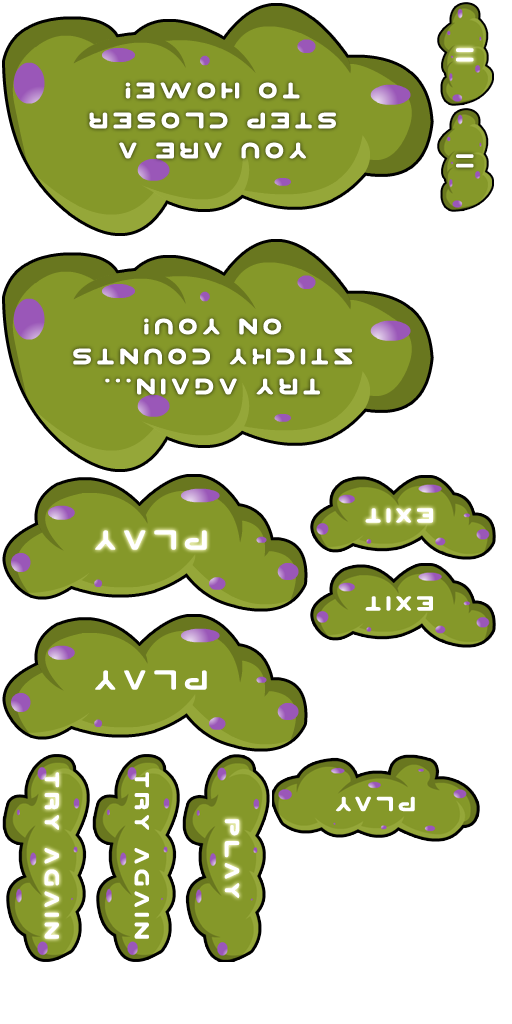
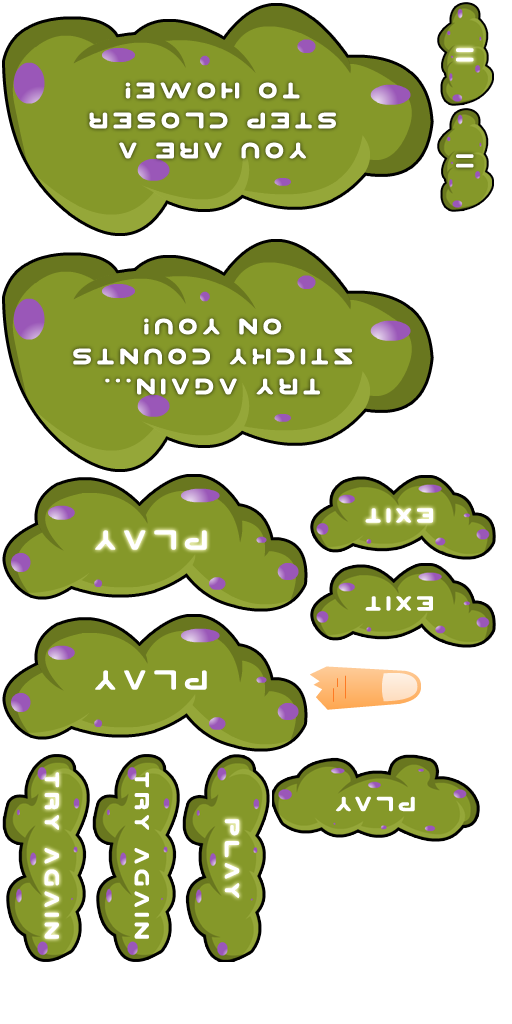
Added how to play at the begining of the 1st level.

Changed region(s): [[0.5938, 0.625, 0.8438, 0.7188]]

diff --git a/TunnelJoggler/HUD.mm b/TunnelJoggler/HUD.mm
@@ -15,12 +15,14 @@
 @interface HUD()
 @property (nonatomic, assign) BOOL isGameOver;
 @property (nonatomic, assign) int score;
+@property (assign, nonatomic, readwrite) BOOL isShowingHowToPlay;
 @end
 
 @implementation HUD
 
 @synthesize isGameOver;
 @synthesize score;
+@synthesize isShowingHowToPlay;
 
 +(id) HUDWithGameNode:(Game*)game {
 	return [[[self alloc] initWithGameNode:game] autorelease];
@@ -105,6 +107,28 @@
 -(void)resume {
     [self removeChild:menu_ cleanup: YES];
     [[CCDirector sharedDirector] resume];
+}
+
+-(void) showHowToPlay {
+    self.isShowingHowToPlay = YES;
+	CGSize s = [[CCDirector sharedDirector] winSize];
+    id moveRight = [CCMoveBy actionWithDuration:1.0 position:CGPointMake(0, -50.0)];
+    id moveLeft = [CCMoveBy actionWithDuration:2.0 position:CGPointMake(0, 100.0)];
+    id seq = [CCSequence actions:moveRight, moveLeft, moveRight, nil];
+	CCMenuItem *item0 = [SoundMenuItem itemFromNormalSpriteFrameName:@"finger.png" selectedSpriteFrameName:@"finger.png" target:nil selector:nil];
+    item0.isEnabled = NO;
+	menu_ = [CCMenu menuWithItems:item0, nil];
+    [item0 runAction:[CCRepeatForever actionWithAction:seq]];
+	[menu_ alignItemsHorizontallyWithPadding: 25.0];
+	[menu_ setPosition:ccp(20.0, s.height/2)];
+	[self addChild:menu_ z:10];
+}
+
+-(void) dismissHowToPlay:(id)sender {
+    if (self.isShowingHowToPlay) {
+        self.isShowingHowToPlay = NO;
+    }
+    [self resume];
 }
 
 -(void) onButtonPausePressed:(id)sender {

diff --git a/TunnelJoggler/Game.mm b/TunnelJoggler/Game.mm
@@ -261,6 +261,15 @@
     if (offset < 0) {
         offset = 0;
         offset += 1;
+    } else {
+        static dispatch_once_t onceToken;
+        dispatch_once(&onceToken, ^{
+            if ([self.player.currentLevel intValue] == 0 &&
+                !self.hud.isShowingHowToPlay) {
+                [self.hud showHowToPlay];
+            }
+            
+        });
     }
     
     //        NSLog(@"offset %f", offset);
@@ -357,6 +366,12 @@
         [terrain_ removeChild: paddle_ cleanup: YES];
         world_->DestroyBody(paddle_.body);
         [self.hud gameOver: NO touchedFatalObject: YES];
+    }
+}
+
+-(void)ccTouchesBegan:(NSSet *)touches withEvent:(UIEvent *)event {
+    if (self.hud.isShowingHowToPlay) {
+        [self.hud dismissHowToPlay:self];
     }
 }
 

diff --git a/TunnelJoggler/HUD.h b/TunnelJoggler/HUD.h
@@ -16,10 +16,14 @@
     CCMenu *menu_;
 }
 
+@property (assign, nonatomic, readonly) BOOL isShowingHowToPlay;
+
 +(id) HUDWithGameNode:(Game*)game;
 -(id) initWithGameNode:(Game*)game;
 -(void) gameOver:(BOOL)didWin touchedFatalObject:(BOOL) fatalObjectTouched;
 -(void) onUpdateScore:(int)addScore;
 -(void) pause;
+-(void) showHowToPlay;
+-(void) dismissHowToPlay:(id)sender;
 
 @end
